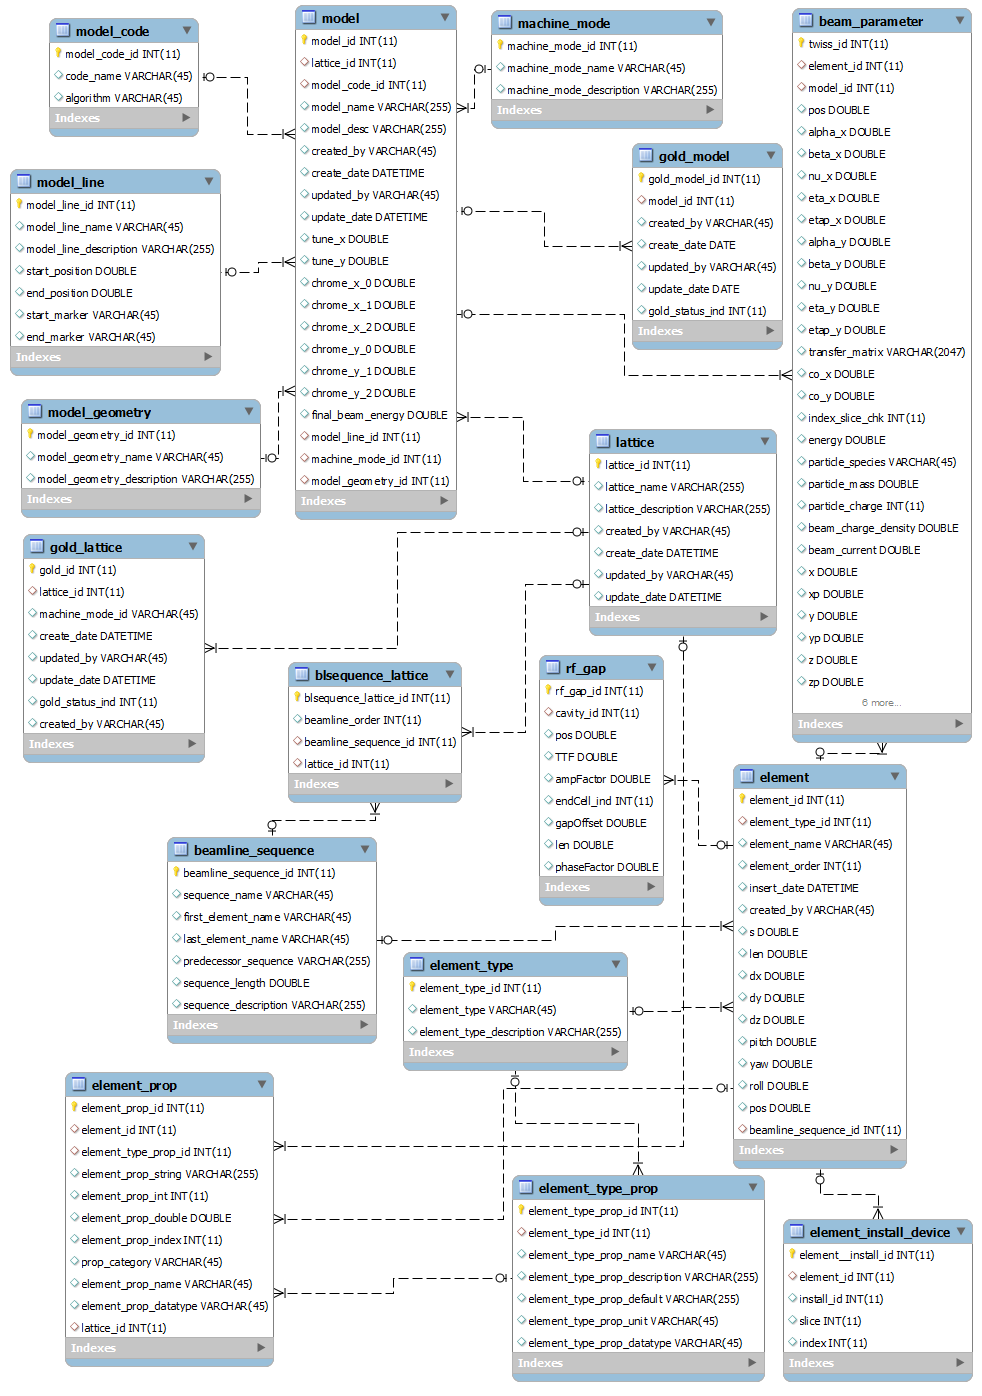
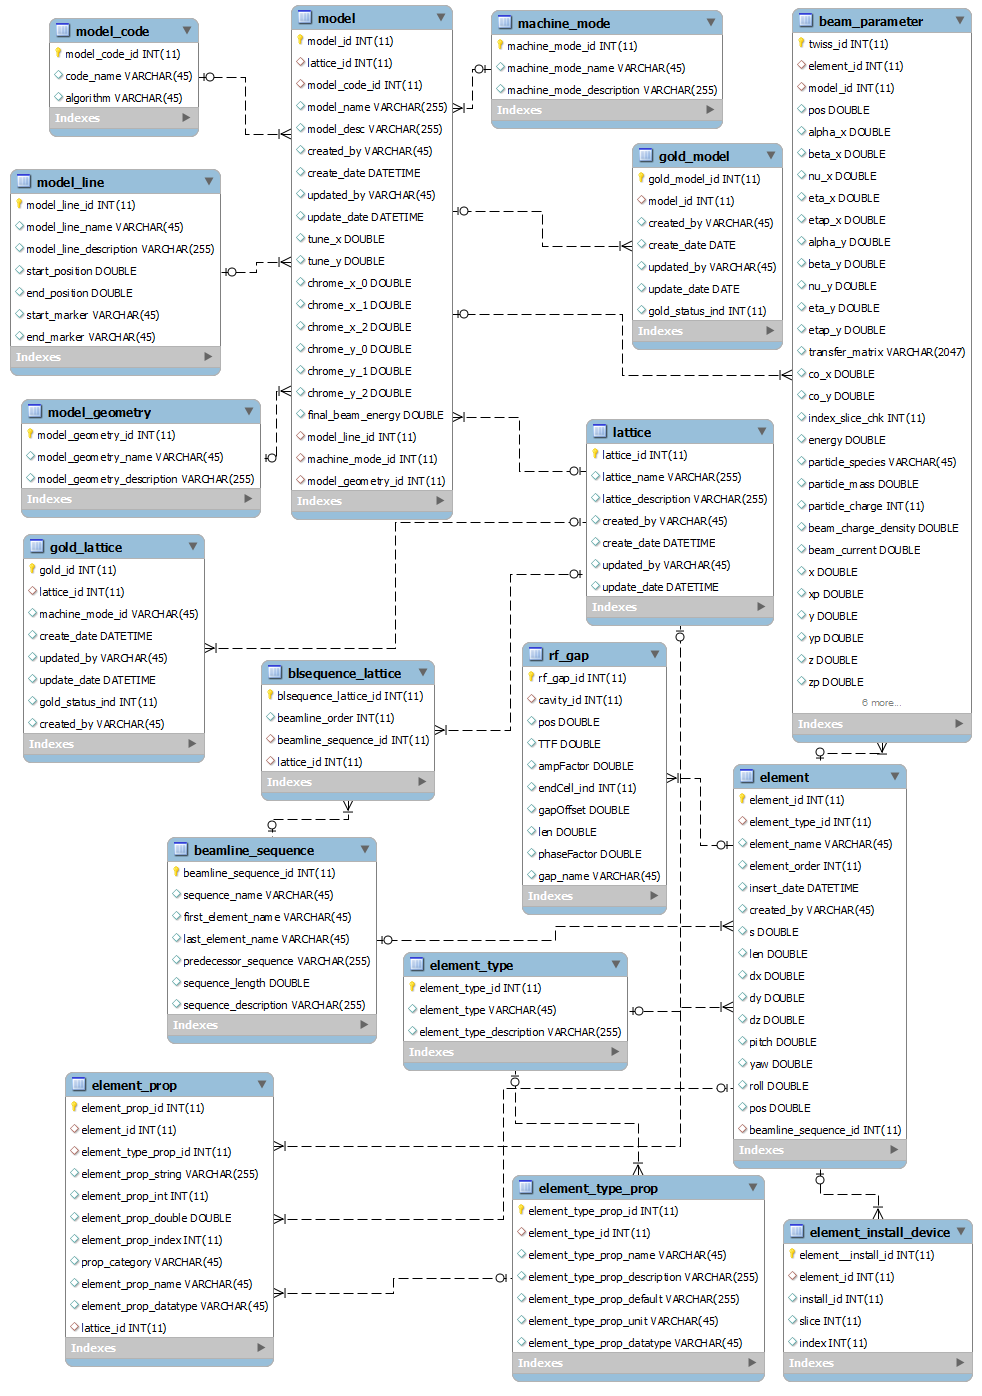
I think I finish the Db2Xal coding with RF Gaps included.

diff --git a/modelDB/src/edu/msu/frib/xal/db2xal/Db2Xal.java b/modelDB/src/edu/msu/frib/xal/db2xal/Db2Xal.java
@@ -24,10 +24,12 @@ import org.openepics.model.api.BeamlineSequenceAPI;
 import org.openepics.model.api.ElementAPI;
 import org.openepics.model.api.ElementPropAPI;
 import org.openepics.model.api.ModelDB;
+import org.openepics.model.api.RfGapAPI;
 import org.openepics.model.entity.BeamlineSequence;
 import org.openepics.model.entity.Element;
 import org.openepics.model.entity.ElementProp;
 import org.openepics.model.entity.ElementTypeProp;
+import org.openepics.model.entity.RfGap;
 
 /**
  *
@@ -144,7 +146,14 @@ public class Db2Xal {
             Iterator<Element> eIt = eList.iterator();
             while (eIt.hasNext()) {
                 Element e = eIt.next();
-                sb.append("      <node id=\"");
+                // everything other than RF cavities treated as node
+                if (!e.getElementTypeId().getElementType().equals("CAV")) {
+                    sb.append("      <node id=\"");
+                } 
+                // RF cavities treated as sequence
+                else {
+                    sb.append("      <sequence id=\"");
+                }
                 sb.append(e.getElementName());
                 sb.append("\" type=\"");
                 sb.append(e.getElementTypeId().getElementType());
@@ -234,8 +243,8 @@ public class Db2Xal {
                         sb.append("/>\n");
                     }
 
-                    // set rfgap attributes
-                    Map rfAttMap = ElementPropAPI.getRfgapAttributesForElement(e.getElementName());
+                    // set rfcavity attributes
+                    Map rfAttMap = ElementPropAPI.getRfcavityAttributesForElement(e.getElementName());
                     if (!rfAttMap.isEmpty()) {
 
                         sb.append("            <rfgap ");
@@ -278,9 +287,49 @@ public class Db2Xal {
                     }
                     
                     sb.append("         </channelsuite>\n");
+                    
+                    // now we need to check if this is an RF cavity and fill in all the RF gaps within this cavity
+                    if (e.getElementTypeId().getElementType().equals("CAV")) {
+                        List<RfGap> gaps = RfGapAPI.getAllRfgapsForCavity(e.getElementName());
+                        Iterator<RfGap> gapIt = gaps.iterator();
+                        while (gapIt.hasNext()) {
+                            RfGap rg = gapIt.next();
+                            sb.append("         <node type=\"RG\" id=\"");
+                            sb.append(rg.getGapName());
+                            sb.append("\" pos=\"");
+                            sb.append(rg.getPos());
+                            sb.append("\">\n");
+                            
+                            sb.append("           <attributes>\n");
+                            sb.append("             <rfgap length=\"");
+                            sb.append(rg.getLen());
+                            sb.append("\" phaseFactor=\"");
+                            sb.append(rg.getPhaseFactor());
+                            sb.append("\" ampFactor=\"");
+                            sb.append(rg.getAmpFactor());
+                            sb.append("\" TTF=\"");
+                            sb.append(rg.getTtf());
+                            sb.append("\" endCell=\"");
+                            sb.append(rg.getEndCellind());
+                            sb.append("\" gapOffset=\"");
+                            sb.append(rg.getGapOffset());
+                            sb.append("\"/>\n");
+                            
+                            sb.append("           </attributes>\n");
+                            
+                            sb.append("         </node>\n");
+                        }
+                    }
                 }
                 
-                sb.append("      </node>\n");
+                // close the <node>
+                if (!e.getElementTypeId().getElementType().equals("CAV")) {
+                    sb.append("      </node>\n");
+                } 
+                // close the RF cavity <sequence>
+                else {
+                    sb.append("      </sequence>\n");
+                }
             }
 
             // close the sequence

diff --git a/modelDB/src/org/openepics/model/entity/RfGap.java b/modelDB/src/org/openepics/model/entity/RfGap.java
@@ -14,6 +14,8 @@ import javax.persistence.ManyToOne;
 import javax.persistence.NamedQueries;
 import javax.persistence.NamedQuery;
 import javax.persistence.Table;
+import javax.validation.constraints.NotNull;
+import javax.validation.constraints.Size;
 import javax.xml.bind.annotation.XmlRootElement;
 
 /**
@@ -32,11 +34,13 @@ import javax.xml.bind.annotation.XmlRootElement;
     @NamedQuery(name = "RfGap.findByEndCellind", query = "SELECT r FROM RfGap r WHERE r.endCellind = :endCellind"),
     @NamedQuery(name = "RfGap.findByGapOffset", query = "SELECT r FROM RfGap r WHERE r.gapOffset = :gapOffset"),
     @NamedQuery(name = "RfGap.findByLen", query = "SELECT r FROM RfGap r WHERE r.len = :len"),
-    @NamedQuery(name = "RfGap.findByPhaseFactor", query = "SELECT r FROM RfGap r WHERE r.phaseFactor = :phaseFactor")})
+    @NamedQuery(name = "RfGap.findByPhaseFactor", query = "SELECT r FROM RfGap r WHERE r.phaseFactor = :phaseFactor"),
+    @NamedQuery(name = "RfGap.findByGapName", query = "SELECT r FROM RfGap r WHERE r.gapName = :gapName")})
 public class RfGap implements Serializable {
     private static final long serialVersionUID = 1L;
     @Id
     @Basic(optional = false)
+    @NotNull
     @Column(name = "rf_gap_id")
     private Integer rfGapId;
     // @Max(value=?)  @Min(value=?)//if you know range of your decimal fields consider using these annotations to enforce field validation
@@ -54,6 +58,9 @@ public class RfGap implements Serializable {
     private Double len;
     @Column(name = "phaseFactor")
     private Double phaseFactor;
+    @Size(max = 45)
+    @Column(name = "gap_name")
+    private String gapName;
     @JoinColumn(name = "cavity_id", referencedColumnName = "element_id")
     @ManyToOne
     private Element cavityId;
@@ -127,6 +134,14 @@ public class RfGap implements Serializable {
 
     public void setPhaseFactor(Double phaseFactor) {
         this.phaseFactor = phaseFactor;
+    }
+
+    public String getGapName() {
+        return gapName;
+    }
+
+    public void setGapName(String gapName) {
+        this.gapName = gapName;
     }
 
     public Element getCavityId() {

diff --git a/modelDB/src/org/openepics/model/api/RfGapAPI.java b/modelDB/src/org/openepics/model/api/RfGapAPI.java
@@ -23,7 +23,7 @@ public class RfGapAPI {
     static EntityManager em = emf.createEntityManager();
 
     @PersistenceContext
-    public static List getAllRfgapsForCavity(String cav) {
+    public static List<RfGap> getAllRfgapsForCavity(String cav) {
         
         Query q;
         q = em.createQuery("SELECT g from RfGap rg WHERE rg.cavityId.elementName = :elementname ")
